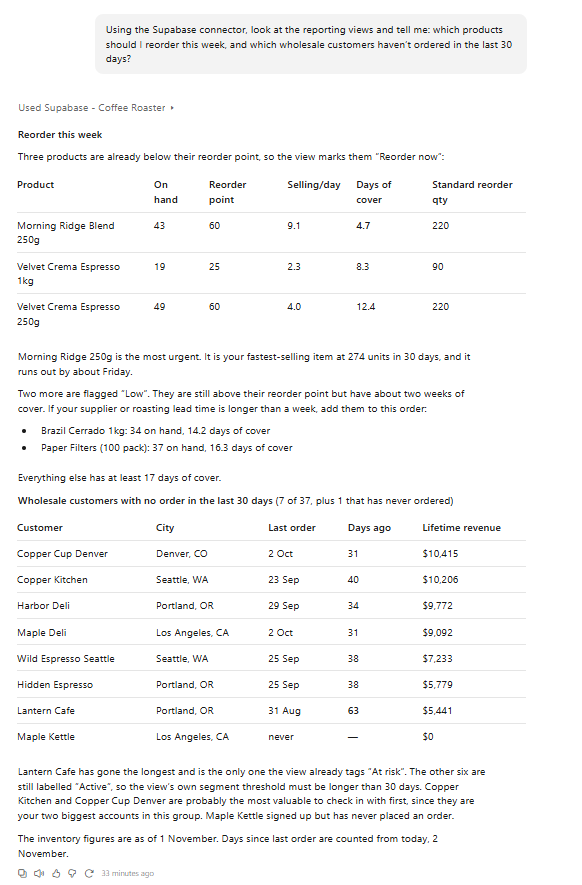
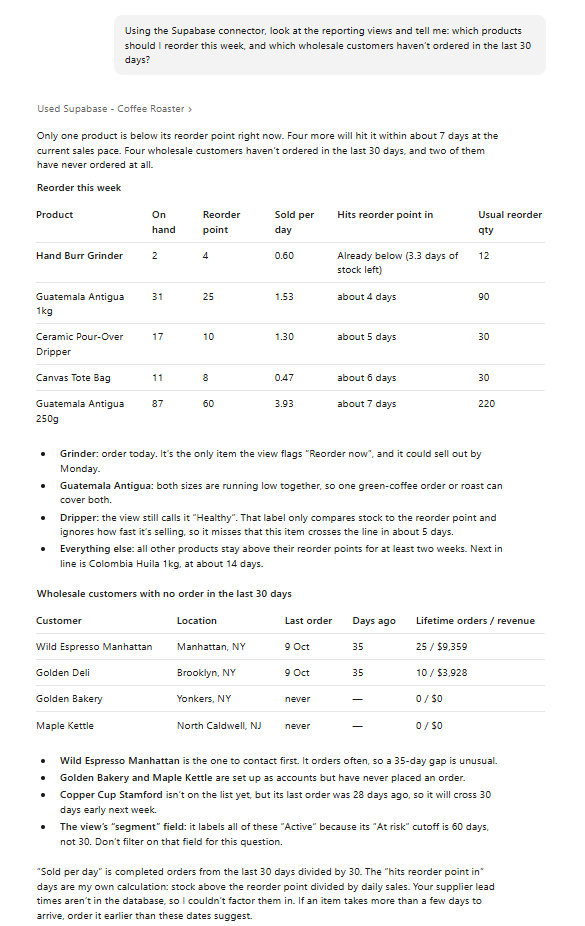
Hide the incomplete current month from monthly trends
Adds is_complete_month to reporting.v_sales and v_monthly_kpis so charts
can filter out the partial month. Also refreshes the Claude demo
screenshot for the Forest Hills data.

Changed region(s): [[0.0309, 0.0305, 0.9278, 1.0], [0.2474, 0.2136, 0.3093, 0.3661], [0.7423, 0.3356, 0.7732, 0.3661]]

diff --git a/README.md b/README.md
@@ -74,7 +74,7 @@ With the Supabase connector, Claude can query the live database directly. It is 
   <img src="docs/claude-demo.png" alt="Claude answering a reorder and customer follow-up question from the live Supabase data" width="600">
 </p>
 
-Claude found the three products below their reorder point, estimated when the fastest seller runs out, and listed the lapsed wholesale accounts ranked by value, so the owner knows who to call first.
+Claude found the product that needs reordering today, predicted which four will need it within a week at the current sales pace, and flagged wholesale accounts that have gone quiet or never ordered, so the owner knows who to call first.
 
 More questions to try:
 

diff --git a/docs/dashboard-guide.md b/docs/dashboard-guide.md
@@ -44,7 +44,7 @@ Create a report (**Create → Report**) and add the Sales data source. Add a **d
 | Orders | Scorecard | — | `order_id` (Count Distinct) |
 | Avg Order Value | Scorecard | — | `Avg Order Value` |
 | Gross Profit | Scorecard | — | `gross_profit` (SUM) |
-| Revenue trend | Time series | `order_month` | `revenue` |
+| Revenue trend | Time series | `order_month` (type: Year Month) | `revenue` · filter: include `is_complete_month` = true |
 | Revenue by channel | Donut chart | `channel` | `revenue` |
 | Revenue by category | Bar chart | `category` | `revenue` |
 | Top 10 products | Table with bars | `product_name` | `revenue`, `quantity`, `gross_profit` · rows: 10 |
